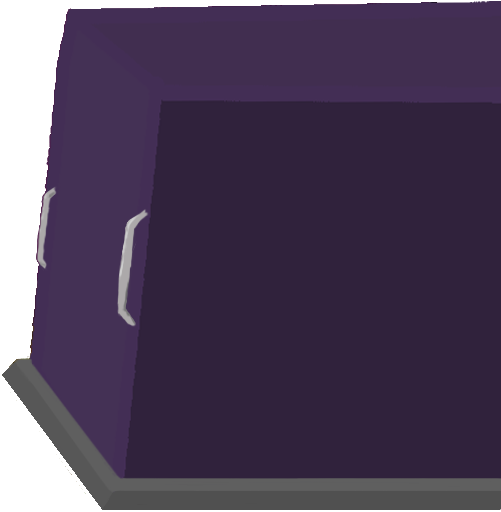
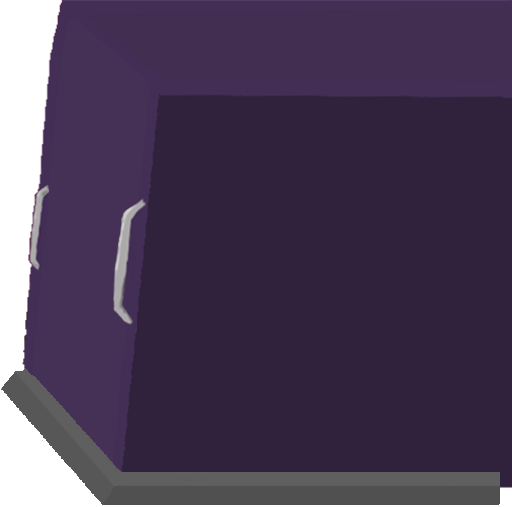
even more hec anim

diff --git a/src/main/java/com/megacrit/cardcrawl/mod/replay/monsters/replay/hec/HellsEngine.java b/src/main/java/com/megacrit/cardcrawl/mod/replay/monsters/replay/hec/HellsEngine.java
@@ -111,7 +111,7 @@ public class HellsEngine extends AbstractMonster {
     private static final byte HEARTBEAT = 6;
     private static final byte STARTUP = 7;
     public HellsEngine() {
-        super(NAME, ID, 999, -1150.0f, 50.0f, 400.0f, 600.0f, "images/monsters/beyond/HEC/e_placeholder.png", 1200.0f, 200.0f);
+        super(NAME, ID, 999, -900.0f, -300.0f, 400.0f, 600.0f, "images/monsters/beyond/HEC/e_placeholder.png", 1200.0f, 300.0f);
 		ReplayTheSpireMod.logger.info("init Engine");
         this.isFirstTurn = true;
         this.plannedCard = null;
@@ -265,11 +265,12 @@ public class HellsEngine extends AbstractMonster {
 					mylist3.add(AbstractDungeon.player);
 					mylist3.add(this.conductor);
 					AbstractDungeon.actionManager.addToBottom(new StartParalaxAction(BeyondScenePatch.bg_controller));
-					AbstractDungeon.actionManager.addToBottom(new MoveCreaturesAction(mylist2, 100, 0, 0.05f));
-					AbstractDungeon.actionManager.addToBottom(new MoveCreaturesAction(mylist3, 100, 80, 0.05f));
-					AbstractDungeon.actionManager.addToBottom(new MoveCreaturesAction(mylist3, 100, 50, 0.05f));
-					AbstractDungeon.actionManager.addToBottom(new MoveCreaturesAction(mylist2, 100, -10, 0.05f));
-					AbstractDungeon.actionManager.addToBottom(new MoveCreaturesAction(mylist2, 100, -20, 0.05f));
+					AbstractDungeon.actionManager.addToBottom(new MoveCreaturesAction(mylist3, 395, -10, 0.2f));
+					/*AbstractDungeon.actionManager.addToBottom(new MoveCreaturesAction(mylist3, 100, 0, 0.05f));
+					AbstractDungeon.actionManager.addToBottom(new MoveCreaturesAction(mylist3, 100, -10, 0.05f));
+					AbstractDungeon.actionManager.addToBottom(new MoveCreaturesAction(mylist3, 100, -20, 0.05f));*/
+					AbstractDungeon.actionManager.addToBottom(new MoveCreaturesAction(mylist2, 55, 50, 0.025f));
+					AbstractDungeon.actionManager.addToBottom(new MoveCreaturesAction(mylist2, 50, 60, 0.025f));
 					this.hb_x += 325.0f;
 					this.hb_w += 50.0f;
 				}

diff --git a/src/main/java/com/megacrit/cardcrawl/mod/replay/monsters/replay/hec/Conductor.java b/src/main/java/com/megacrit/cardcrawl/mod/replay/monsters/replay/hec/Conductor.java
@@ -86,7 +86,7 @@ public class Conductor extends AbstractMonster {
     private static final byte HEARTBEAT = 6;
     private static final byte STARTUP = 7;
     public Conductor() {
-        super(NAME, ID, 999, 25.0f, 25.0f, 180.0f, 250.0f, "images/monsters/beyond/HEC/c_placeholder.png", -75.0f, -75.0f);
+        super(NAME, ID, 999, 0.0f, -150.0f, 180.0f, 250.0f, "images/monsters/beyond/HEC/c_placeholder.png", -100.0f, 100.0f);
 		ReplayTheSpireMod.logger.info("init Conductor");
         this.type = EnemyType.BOSS;
         if (AbstractDungeon.ascensionLevel >= 9) {
@@ -114,7 +114,7 @@ public class Conductor extends AbstractMonster {
         }
         this.damage.add(new DamageInfo(this, this.railgunnerDmg));
         this.damage.add(new DamageInfo(this, this.dynamiteDmg));
-        this.loadAnimation("images/monsters/beyond/HEC/Conductor/Conductor.atlas", "images/monsters/beyond/HEC/Conductor/Conductor.json", 1.0f);
+        this.loadAnimation("images/monsters/beyond/HEC/Conductor/Conductor.atlas", "images/monsters/beyond/HEC/Conductor/Conductor.json", 1.2f);
         this.state.setAnimation(0, "Idle", true);
     }
     

diff --git a/src/main/java/com/megacrit/cardcrawl/mod/replay/powers/MightPower.java b/src/main/java/com/megacrit/cardcrawl/mod/replay/powers/MightPower.java
@@ -34,7 +34,7 @@ public class MightPower extends AbstractPower
         }
         this.isTurnBased = true;
     }
-
+    
 	@Override
     protected void loadRegion(final String fileName) {
         this.region48 = ReplayTheSpireMod.powerAtlas.findRegion("48/" + fileName);
